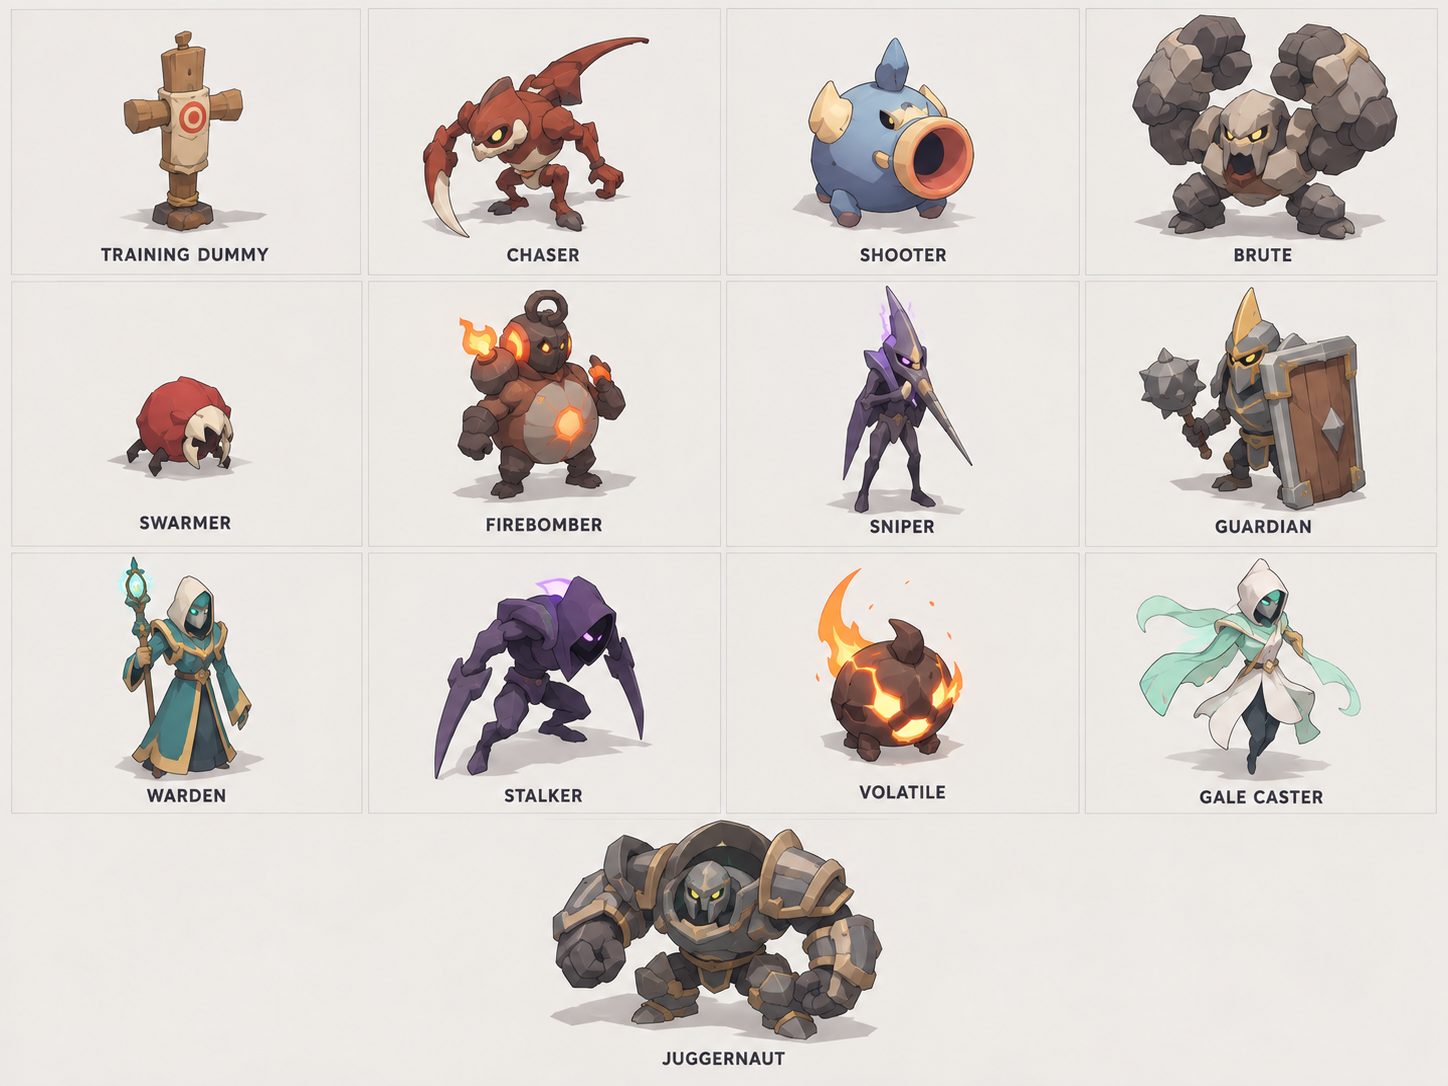
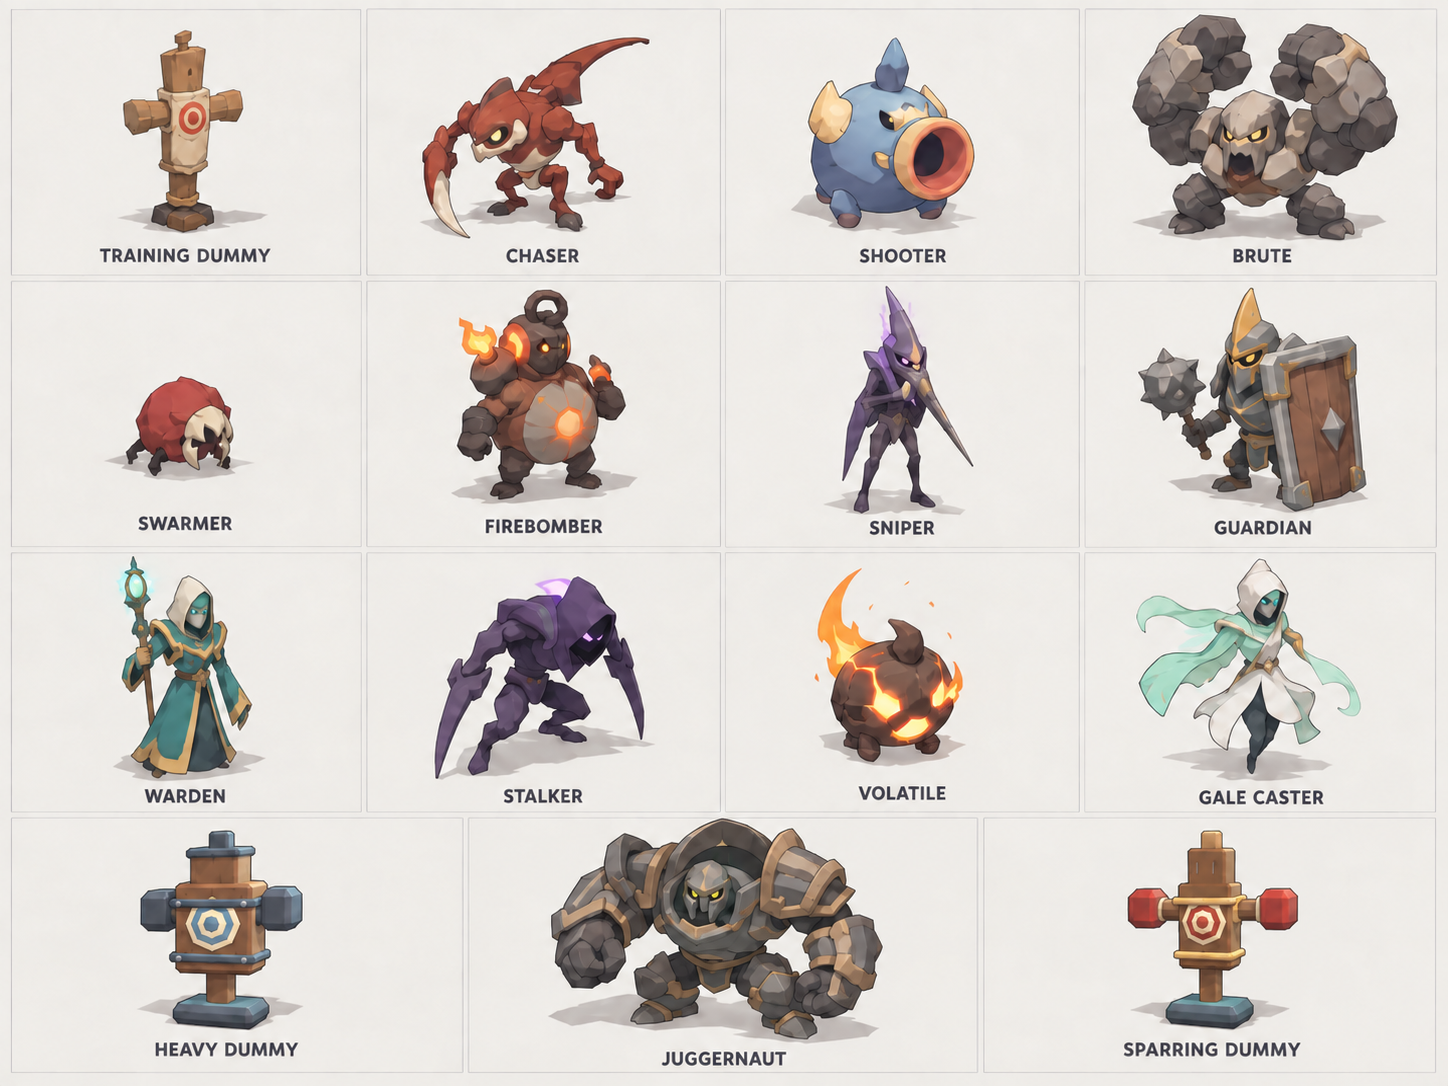
Complete illustrated enemy portraits with both practice dummies

diff --git a/src/presentation/looks.ts b/src/presentation/looks.ts
@@ -42,8 +42,8 @@ export const enemyPortraits: Readonly<Record<EnemyKind, EnemyPortrait | null>> =
   volatile: enemyPortrait(823, 613, 145),
   galeCaster: enemyPortrait(1203, 560, 140),
   juggernaut: enemyPortrait(622, 830, 190),
-  sparringDummy: null,
-  heavyDummy: null
+  sparringDummy: enemyPortrait(1128, 832, 176),
+  heavyDummy: enemyPortrait(141, 831, 165)
 }
 
 /**

diff --git a/art/enemies/portraits/README.md b/art/enemies/portraits/README.md
@@ -1,13 +1,16 @@
 # Enemy UI illustrations
 
-`roster.png` is the supplied Low-Poly Enemy Roster Poster, preserved unchanged.
+`roster.png` is the complete supplied Hand-Painted Fantasy Monster Roster,
+preserved unchanged at full resolution. `roster-original.png` preserves the
+earlier Low-Poly Enemy Roster Poster before the two new dummies were added.
 `enemyPortraits` in `src/presentation/looks.ts` frames it with CSS backgrounds.
 Cards and round enemy indicators share each crop. No new artwork is generated.
 Faces, upper bodies and identifying equipment fill the frame; labels and panel
 borders stay outside it. Compact creatures show most of their body.
 
-The poster covers all twelve combat enemies and Training Dummy. Sparring Dummy
-and Heavy Dummy are missing, so their distinct model portraits remain in use.
+The complete poster covers all twelve combat enemies and all three training
+targets. Heavy Dummy's crop shows its blue target and iron shoulder weights;
+Sparring Dummy's crop shows its red padded striking arms and red target.
 The Firebomber illustration maps to the permanent content id `charger`.
 
 Differences to review against the current models and individual reference sheets:
@@ -39,6 +42,12 @@ phone review. UI animations were temporarily disabled for stable screenshots.
 - [Round indicators at 667 × 375](evidence/home667.png)
 - [Challenge cards at 667 × 375](evidence/quest667.png)
 - [Desktop practice](evidence/desktop.png)
+
+The earlier screenshots above precede the complete sheet. The updated training
+portraits are shown in [844 × 390](evidence/training844.png) and
+[667 × 375](evidence/training667.png).
+Both dummies' facts opened correctly, including a synthetic touch tap on Heavy
+Dummy. Checks and the build passed again after the sheet update.
 
 The preview stores screenshots at a larger display resolution while preserving
 the tested viewport's proportions.
